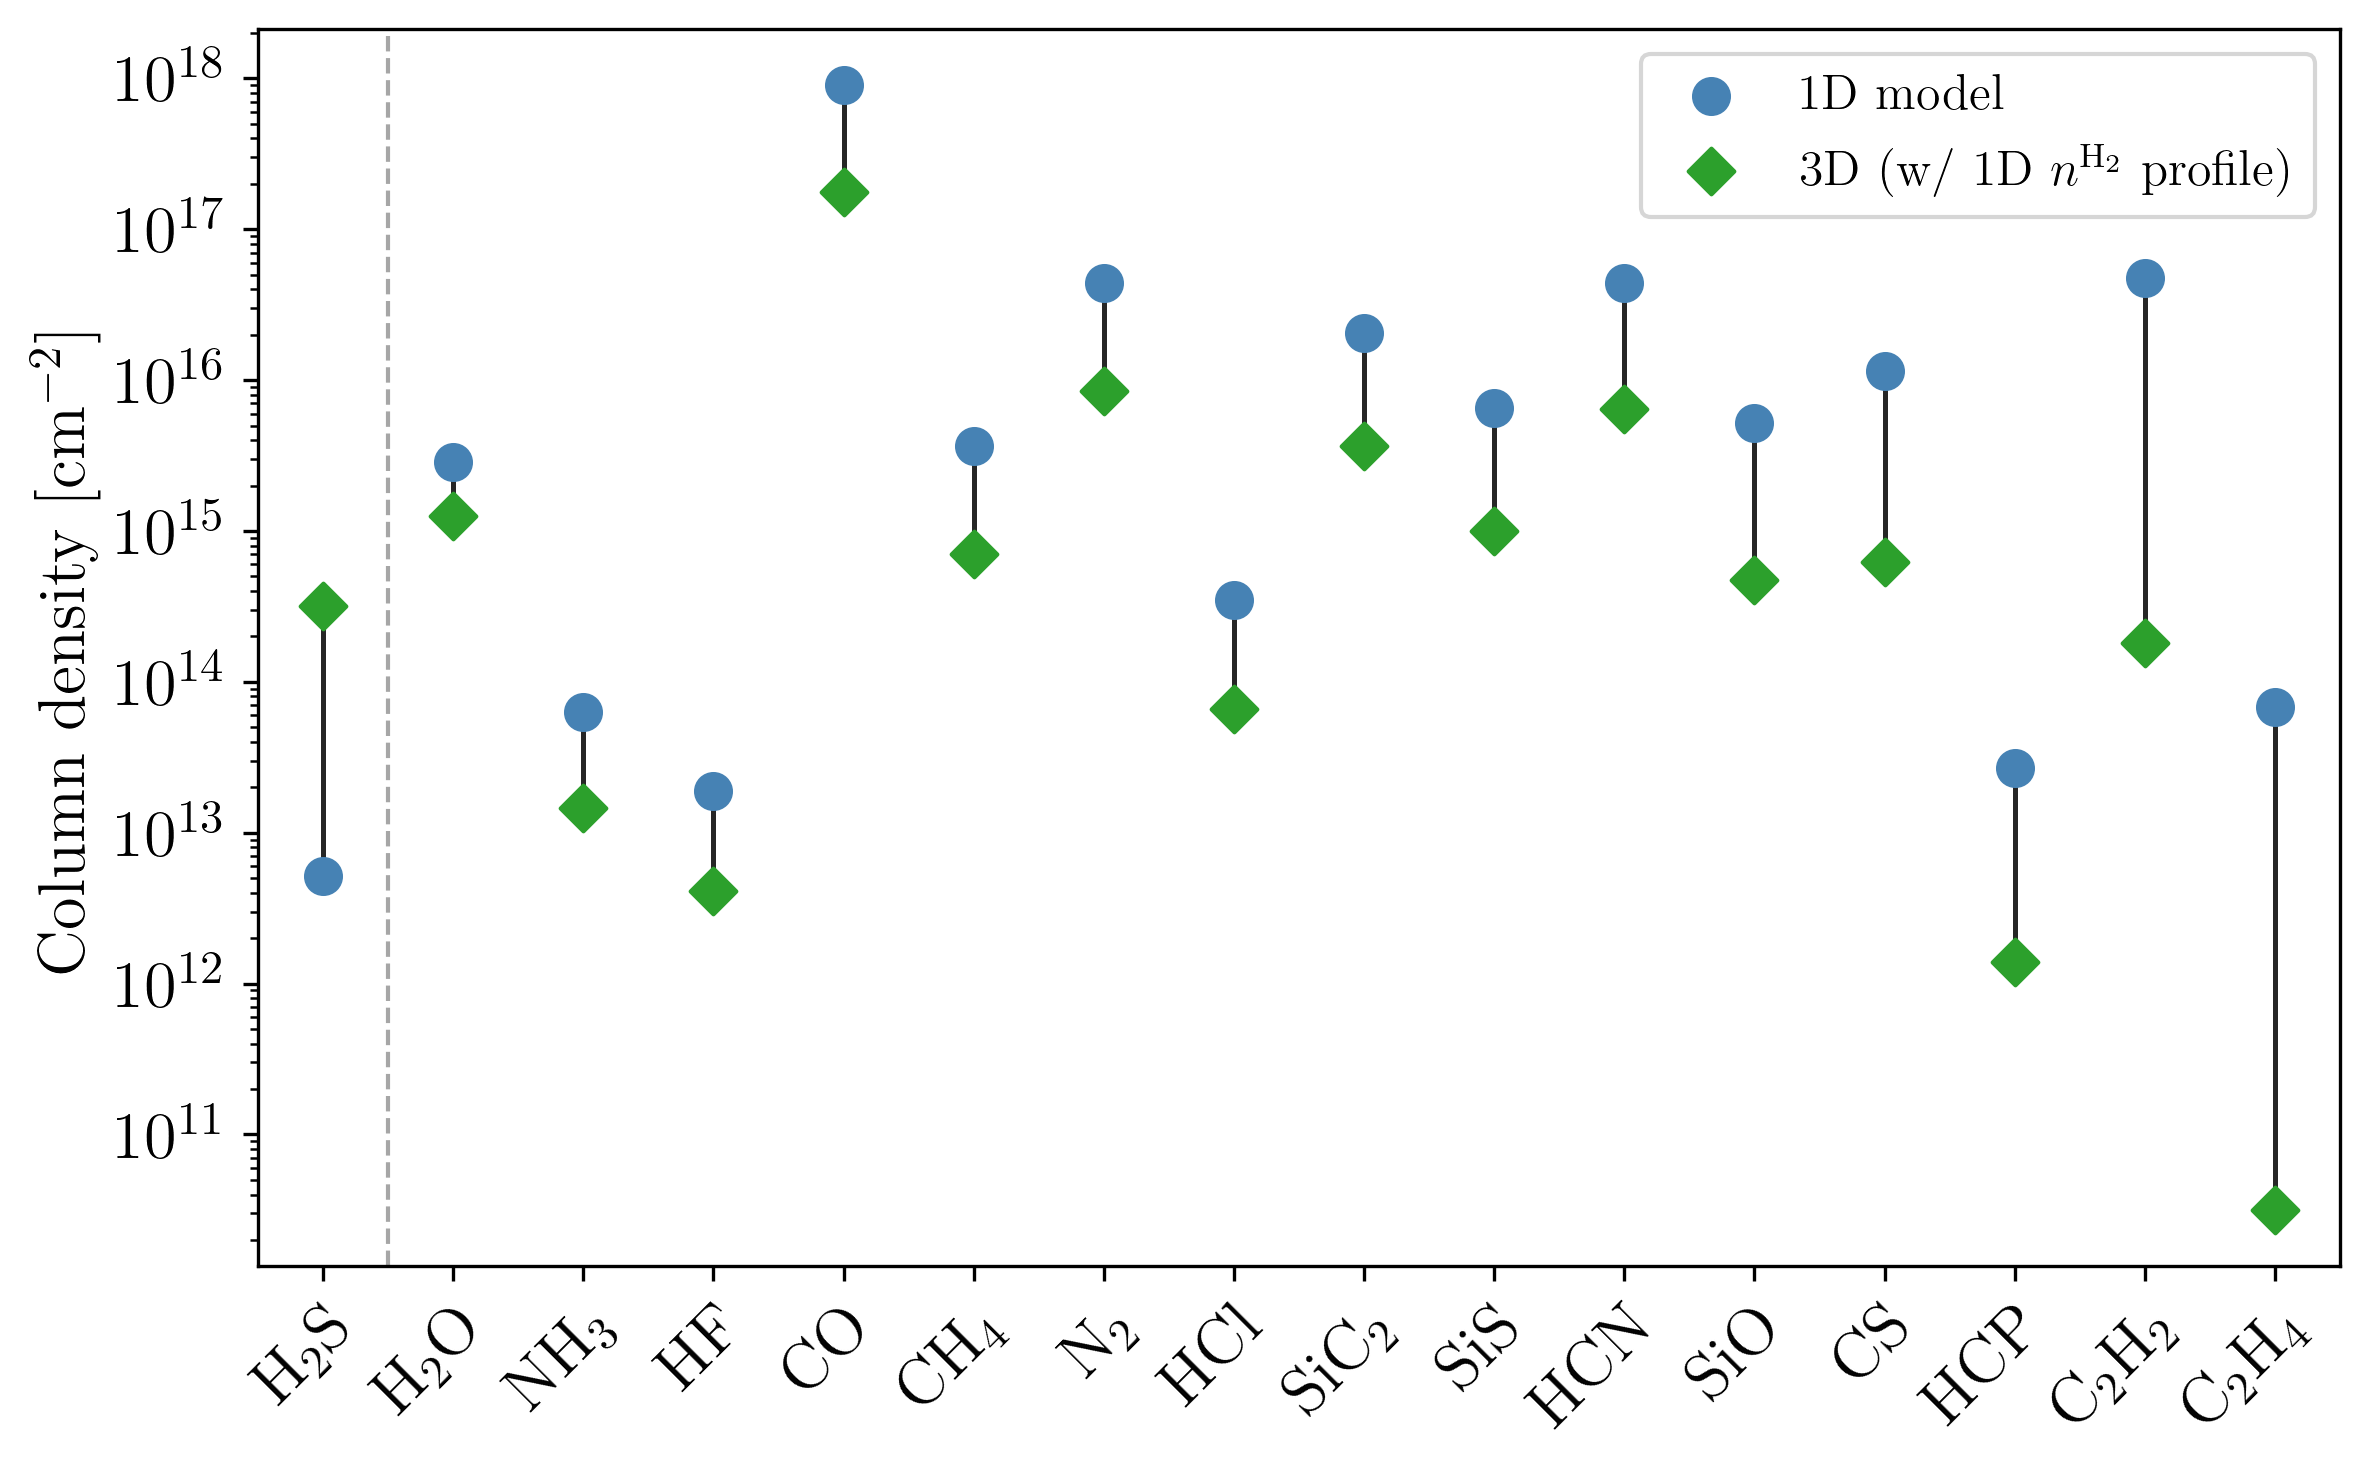
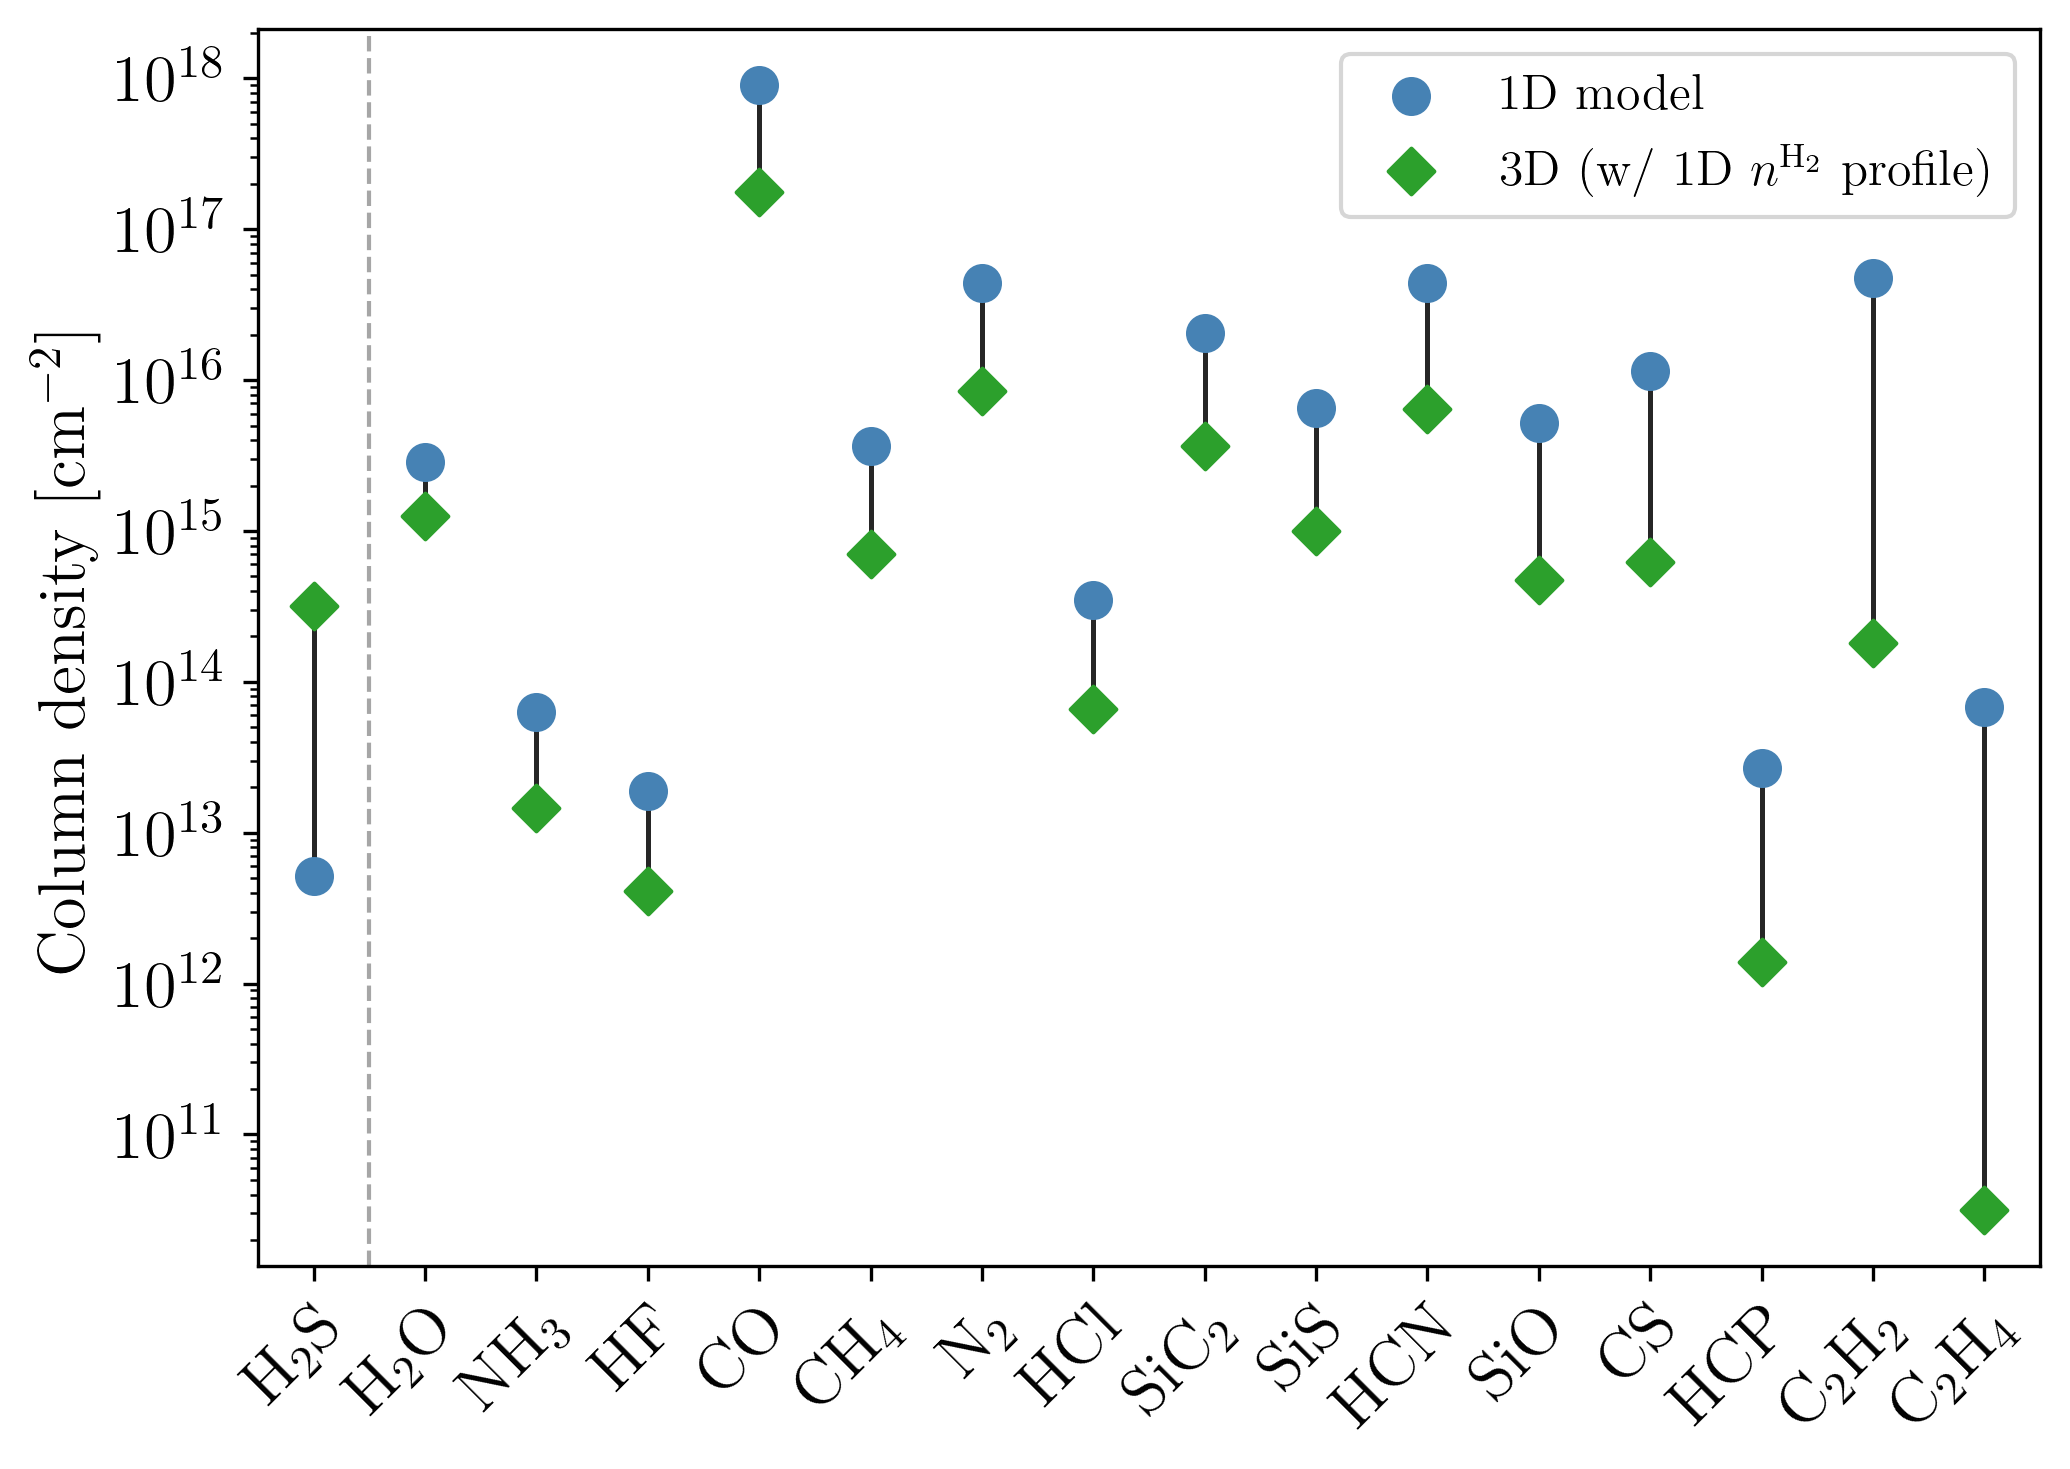
Moreee formatting

diff --git a/pipeline/plotting/coldens.py b/pipeline/plotting/coldens.py
@@ -405,10 +405,8 @@ def plot_column_densities(
         marker_3d = "s"
         color_3d  = "tomato"
 
-    fig, ax = plt.subplots(figsize=(max(6, len(molecules) * 0.5), 5), dpi=300)
+    fig, ax = plt.subplots(figsize=(7, 5), dpi=300)
     ax.set_yscale("log")
-
-
 
     # Dashed vertical line at the 3D>1D / 3D<1D transition
     ratios      = np.array([_ratio(m) for m in molecules])
